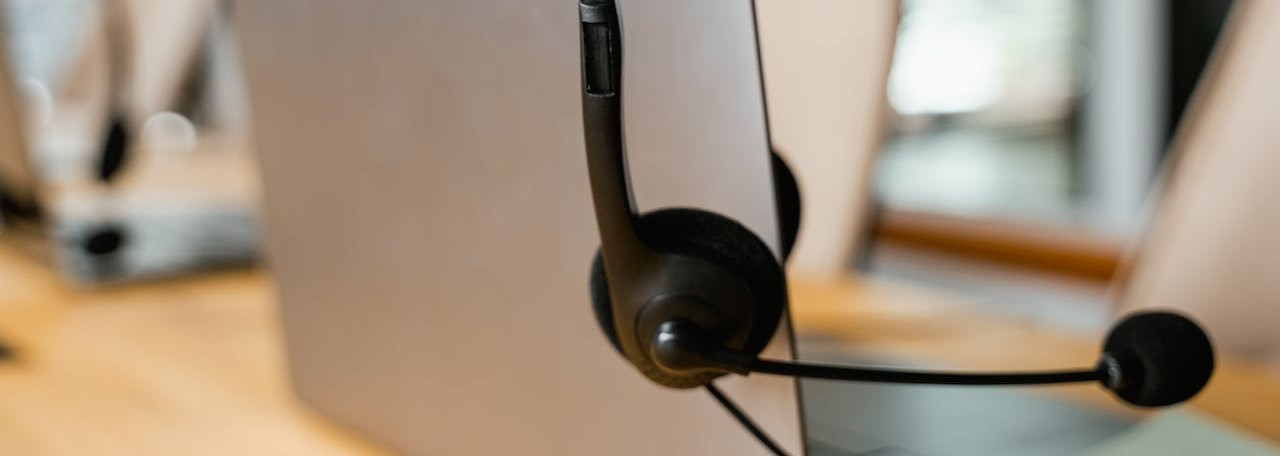
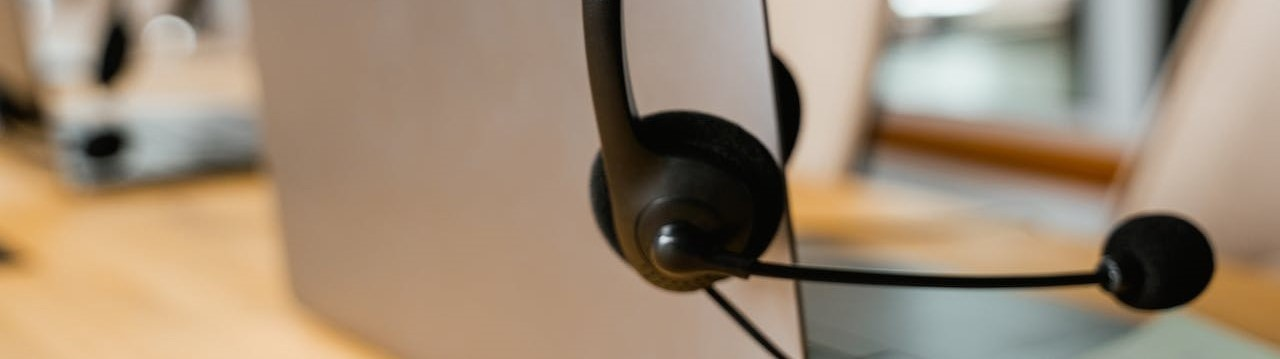
ContactPage created

diff --git a/f-oahse-app/src/pages/ContactPage.js b/f-oahse-app/src/pages/ContactPage.js
@@ -1,0 +1,118 @@
+import React, {useState, useEffect} from 'react'
+import Header from '../components/Header';
+import Footer from '../components/Footer';
+import { Container, Row, Col, Card } from 'react-bootstrap';
+import './ContactPage.css';
+import support1 from '../assets/support1.jpg'
+
+function ContactPage() {
+    const [iconColor, setIconColor] = useState('white');
+    const [navbarBg, setNavbarBg] = useState('transparent');
+    const [margin, setMargin] = useState('20px');
+    const [index, setIndex] = useState(0);
+    const [bgimageheight, setBgImageHeight] =useState(162);
+    const [isMobile, setIsMobile] = useState(false);
+    const linkstyles = {
+        fontFamily: 'Open Sans, sans-serif',
+        color:iconColor
+    };
+
+    const handleSelect = (selectedIndex) => {
+        setIndex(selectedIndex);
+      };
+
+    const handleScroll = () => {
+        const scrollY = window.scrollY;
+        const scrollThreshold = 20; // Adjust the threshold as needed
+
+        if (scrollY > scrollThreshold) {
+        setNavbarBg('white');
+        setIconColor('black');
+        setMargin('0px');
+
+        } else {
+        setNavbarBg('transparent');
+        setIconColor('white');
+        setMargin('20px');
+        
+        }
+    };
+
+    // const checkIfMobile = () => {
+    //     const width = window.innerWidth;
+    //     setIsMobile(width <= 767); // Adjust threshold as needed
+    // };
+    // const handleResize = () => {
+    //     var bgimg = document.getElementById('bgimage');
+    //     setBgImageHeight(bgimg.height-30);
+        
+    //     checkIfMobile();
+    // };
+
+    useEffect(() => {
+        
+        
+        window.addEventListener('scroll', handleScroll);
+        // window.addEventListener('resize', handleResize);
+
+        // handleResize();
+
+        return () => {
+            window.removeEventListener('scroll', handleScroll);
+            // window.removeEventListener('resize', handleResize); 
+        };
+
+    }, []);
+
+  return (
+    <div>
+        <Header  iconColor={iconColor} navbarBg={navbarBg} linkstyles={linkstyles} margin={margin}/>
+        <img src={support1} alt='support' width='100%' />
+        <div  className='support-text' style={{display: 'absolute', top: '50px',  }}>
+            <div className='text-center'>
+                <h1>Support</h1>
+                <p>lorem ipsum dolor nunvult element d'ecole</p>
+            </div>
+        </div>     
+
+        <Container>
+            <Row className='py-3'>
+                <Col>
+                    <Card className='text-center p-5 mb-3'>
+                        <Card.Title><i className="fa fa-building" aria-hidden="true" /> Our Office Locations</Card.Title>
+                        <Card.Text>
+                            <p>
+                                <b>Corporate Office: </b> 20, Wilson Avenue, Winsconsin Gotham City. <br/>
+                                <b>Branch Office: </b> Q191, Leathbridge Avenue, Nova Metropolis, ON, Lagos. 
+                        
+                            </p> 
+                        </Card.Text>
+                    </Card>
+                </Col>
+
+                <Col>
+                    <Card className='text-center p-5 mb-3'>
+                        <Card.Title><i className="fa fa-envelope" aria-hidden="true" /> E-Mail </Card.Title>
+                        <Card.Text> <a href='mailto: enquiries@oahse.com'>enquiries@oahse.com</a> </Card.Text>
+                    </Card>
+                </Col>
+
+                <Col>
+                    <Card className='text-center p-5 mb-3'>
+                        <Card.Title><i className="fa fa-phone" aria-hidden="true" /> Call Center</Card.Title>
+                        <Card.Text>
+                            <a href='tel: +2348023456789'> 08023456789</a> <br/>
+                            <a href='https://wa.me/08012345678'> <i class="bi bi-whatsapp" aria-hidden="true"/> 08012345678</a>
+                        
+                        </Card.Text>
+                    </Card>
+                </Col>
+            </Row>
+        </Container>
+
+        <Footer/>
+    </div>
+  )
+}
+
+export default ContactPage

diff --git a/f-oahse-app/src/pages/About.js b/f-oahse-app/src/pages/About.js
@@ -18,9 +18,8 @@ function About() {
     const [iconColor, setIconColor] = useState('white');
     const [navbarBg, setNavbarBg] = useState('transparent');
     const [margin, setMargin] = useState('20px');
-    const [bgimageheight, setBgImageHeight] =useState(162);
+    const [bgimageheight, setBgImageHeight] = useState(162);
     const [isMobile, setIsMobile] = useState(false);
-    
     const [index, setIndex] = useState(0);
   
     const handleSelect = (selectedIndex) => {
@@ -57,20 +56,21 @@ function About() {
         
         checkIfMobile();
     };
+
     useEffect(() => {
         
         
         window.addEventListener('scroll', handleScroll);
         window.addEventListener('resize', handleResize);
 
-        handleResize();
+        handleResize()
 
         return () => {
             window.removeEventListener('scroll', handleScroll);
             window.removeEventListener('resize', handleResize); 
         };
 
-    }, []);
+    },  []);
     
   
     return (
@@ -85,7 +85,7 @@ function About() {
                           <h2>Your Engineering Services <br/>
                               Made Easier,
                               Made Better,
-                              <div className='mt-2' style={{display:'flex',flex:1,flexDirection:'row', justifyContent:'space-between'}}>
+                              <div className='mt-2' style={{display:'flex', flex:1, flexDirection:'row', justifyContent:'space-between'}}>
                                 <IconButton icon={faGooglePlay} to="#" text="Google Play" className='m-0' />
                                 <IconButton icon={faAppStore} to="#" text="App Store" className='m-0' />
                               </div>

diff --git a/f-oahse-app/src/components/Header.js b/f-oahse-app/src/components/Header.js
@@ -1,5 +1,5 @@
 import { React, useState, useEffect, useRef, faTimes, 
-        faBars, faBell,Navbar, Nav,logo, Link,faMapMarkerAlt,faCartShopping} from '../components/all_imports';
+        faBars, faBell,Navbar, Nav,logo, Link,faMapMarkerAlt,faCartShopping, NavDropdown} from '../components/all_imports';
 
 import Btn from './Button';
 import Icon from './Icon';
@@ -88,7 +88,13 @@ const Header = (props) => {
                             <Link to="/" className="header-link" style={linkstyles} onClick={()=>setactive(this)} >Home</Link>
                             <Link to="/about" className="header-link" style={linkstyles}>About</Link>
                             <Link to="/find" className="header-link" style={linkstyles}>Find</Link>
-                            <Link to="/products" className="header-link" style={linkstyles}>Products</Link>
+                            {/* <NavDropdown title="Dropdown" id="basic-nav-dropdown">
+                                <NavDropdown.Item href="/#find">Technicians</NavDropdown.Item>
+                                <NavDropdown.Item href="#action/3.2"> Engineers</NavDropdown.Item>
+                                <NavDropdown.Divider />
+                                <NavDropdown.Item href="#action/3.4">Separated link</NavDropdown.Item>
+                            </NavDropdown> */}
+                            <Link to="/products" className="header-link" style={linkstyles}>Store</Link>
                             <Link to="/contact" className="header-link" style={linkstyles}>Contact Us</Link>
                             <Btn to="/login" text="Login" />
                             <Btn to="/signup" text="Sign Up" />

diff --git a/f-oahse-app/src/components/Body.js b/f-oahse-app/src/components/Body.js
@@ -1,5 +1,5 @@
 import React, { useState, useEffect } from 'react';
-import { Container,Navbar, Nav} from 'react-bootstrap';
+import { Container,Navbar, Nav, Row, Col }  from 'react-bootstrap';
 
 import { BrowserRouter as Router, Switch, Route ,Link } from "react-router-dom";
 import { faBars, faTimes} from '@fortawesome/free-solid-svg-icons';
@@ -48,14 +48,14 @@ const Body = (props) => {
                       <div className='col-12 col-sm-8 col-md-8 col-lg-8 col-xl-8 mb-5  float-left'>
                           <h2>Your Engineering Services <br/>
                               Made Easier,
-                              Made Better,
+                              Made Better
+                            </h2>
                               <div className='mt-2' style={{display:'flex',flex:1,flexDirection:'row', justifyContent:'space-between'}}>
                                 <IconButton icon={faGooglePlay} href="#" text="Google Play" className='m-0' />
                                 <IconButton icon={faAppStore} href="#" text="App Store" className='m-0' />
                               </div>
-                          </h2>
                           
-                      </div>
+                        </div>
                       
                     </div>
                   ):

diff --git a/f-oahse-app/src/App.js b/f-oahse-app/src/App.js
@@ -1,15 +1,15 @@
 import './App.css';
-
 import { HashRouter, Routes, Route } from 'react-router-dom'
 import Home from './pages/Home';
 import Find from './pages/Find';
 import Product from './pages/Product';
-import Contact from './pages/Contact';
+import ContactPage from './pages/ContactPage';
 import Cart from './pages/Cart';
 import About from './pages/About';
 import LoginPage from './pages/LoginPage'
 import SignUpPage from './pages/SignUpPage';
 import SignUpForContractorsPage from './pages/SignUpForContractorsPage'
+
 
 function App() {
   const ROOT_URL="http://localhost:3000"; //"https://oahse.github.io/O-sell/"
@@ -34,7 +34,7 @@ function App() {
             <Route path="/products" element={<Product/>} ></Route>
             <Route path="/products/cart" element={<Cart/>} ></Route>
             <Route path="/about" element={<About/>} ></Route>
-            <Route path="/contact" element={<Contact/>} ></Route>
+            <Route path="/contact" element={<ContactPage/>} ></Route>
             <Route path="/login" element={<LoginPage/>}></Route>
             <Route path="/signup" element={<SignUpPage/>}></Route>
             <Route path="/signup-for-contractors" element={<SignUpForContractorsPage/>}></Route>

diff --git a/f-oahse-app/src/components/all_imports.js b/f-oahse-app/src/components/all_imports.js
@@ -1,7 +1,7 @@
 import React, { useState, useEffect, useRef } from 'react';
 import { createRoot } from 'react-dom/client';
 import ReactDOM from 'react-dom';
-import { Container,Navbar, Nav, Button, Col, Row} from 'react-bootstrap';
+import { Container,Navbar, Nav, NavDropdown, Button, Col, Row} from 'react-bootstrap';
 
 import { BrowserRouter as Router, Switch, Route ,Link } from "react-router-dom";
 import { faBell, } from '@fortawesome/free-regular-svg-icons';
@@ -41,6 +41,7 @@ export {
   Navigation,
   Navbar, 
   Nav,
+  NavDropdown,
   Col,
   Row,
   Router, 

diff --git a/f-oahse-app/src/pages/ContactPage.css b/f-oahse-app/src/pages/ContactPage.css
@@ -1,0 +1,8 @@
+img{
+    filter: brightness(50%);
+}
+
+.support-text{
+    display: absolute;
+    top: 50%;
+}
